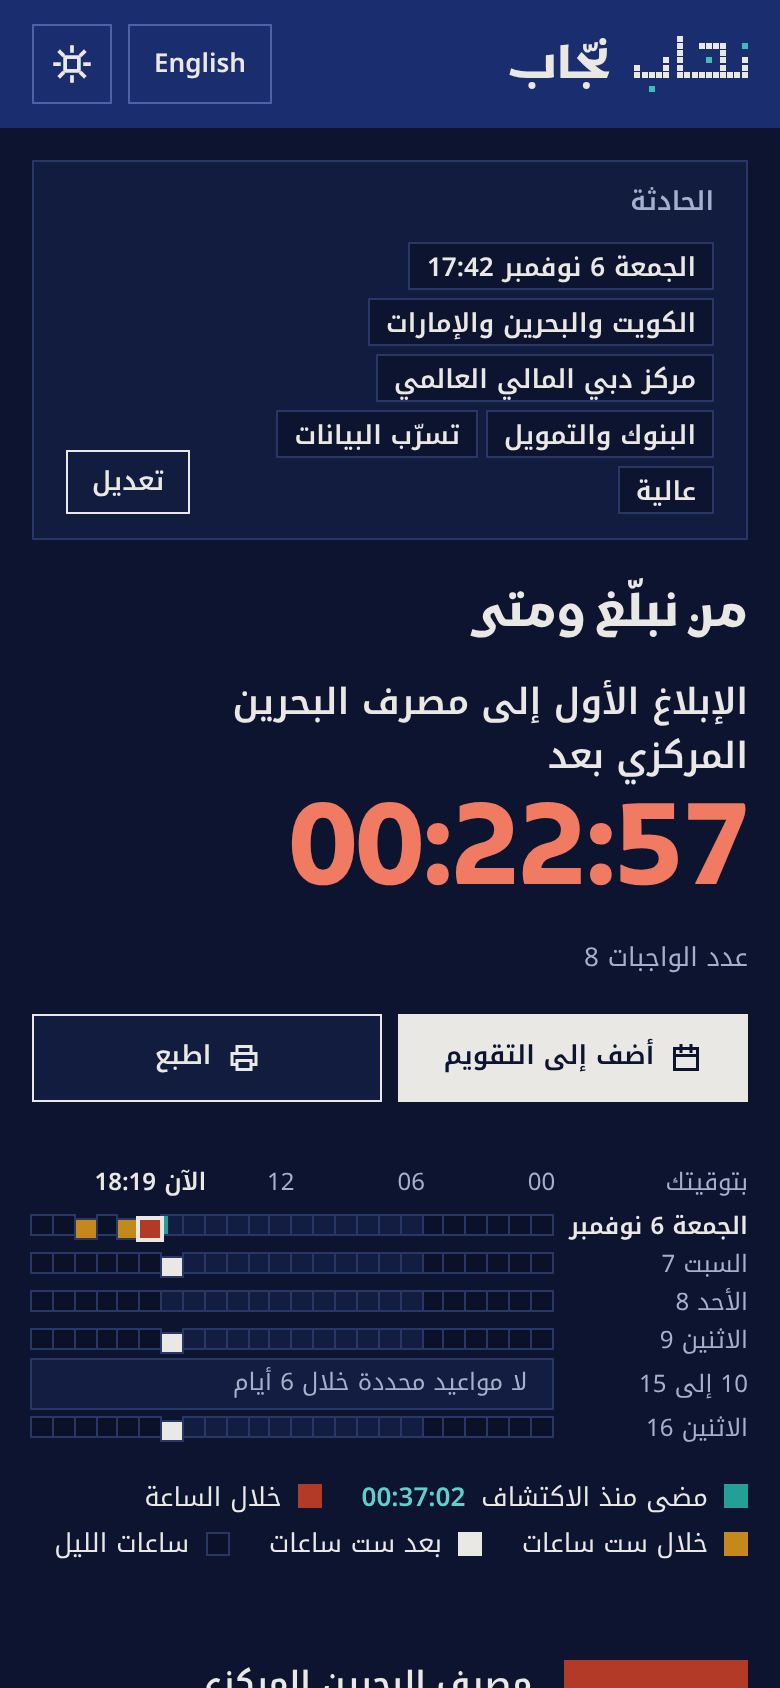
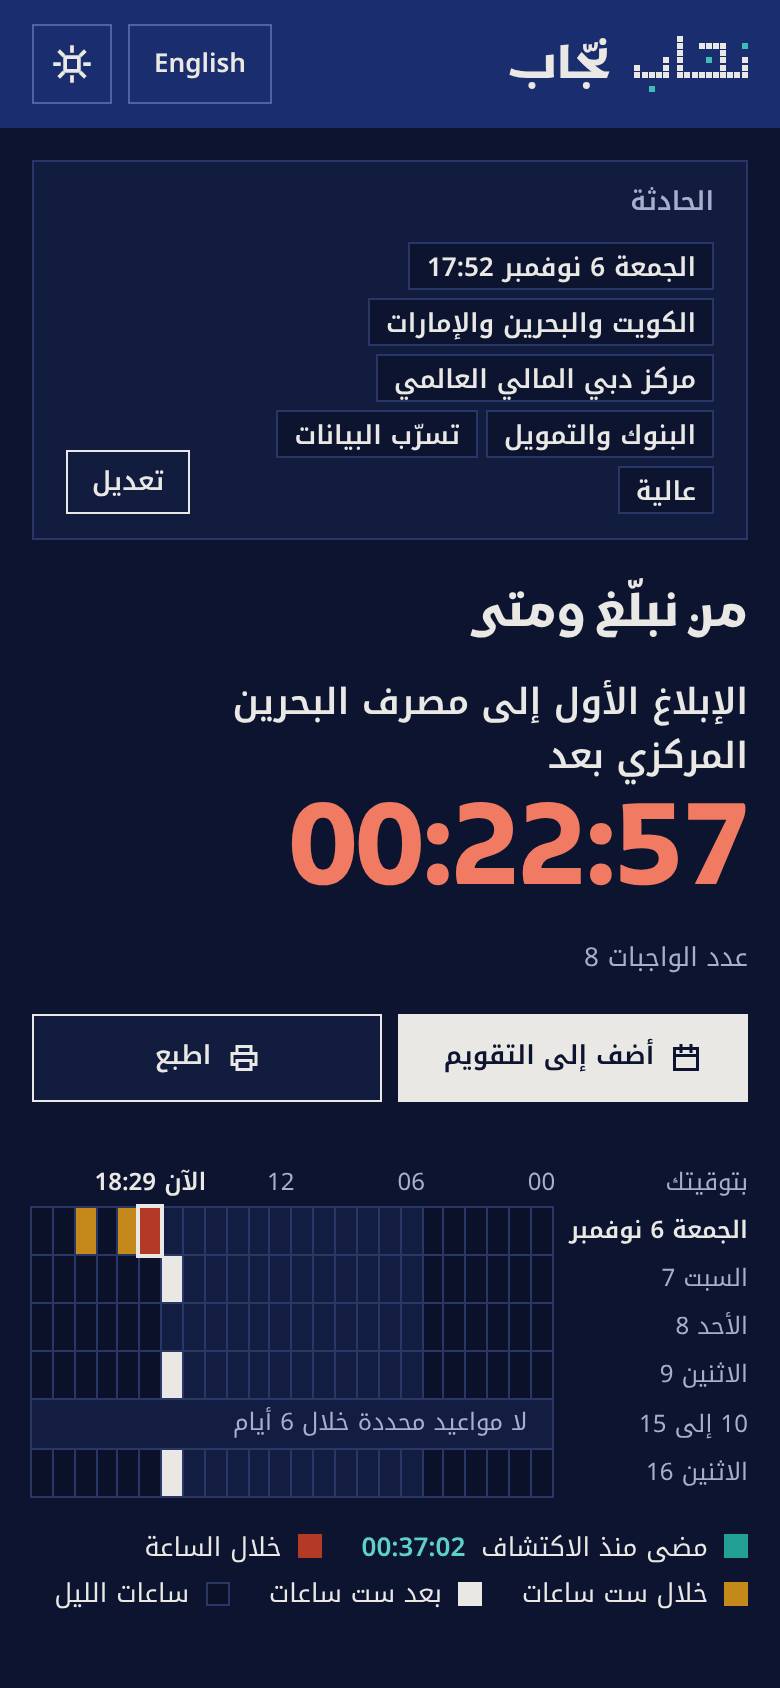
Phone wall rows a full target tall, and the discovery field typeable everywhere
On a phone each hour of the wall is a brick standing on its end, a 24 pixel
row tall, and glazed tiles one plain tile apart share a target as touching ones
do, so no two targets overlap. Opening the moment of discovery now opens the
field itself with its label, so its hour and minute can be typed where a
browser's picker offers only the date.

The due time line under each duty had the same class name as the glazed tiles,
which pushed every glazed tile four pixels down; it has its own name now.

diff --git a/docs/assets/app.js b/docs/assets/app.js
@@ -208,7 +208,7 @@ function renderForm() {
     h('input', { type: 'radio', name: 'severity', value: k, checked: S.severity === k, onchange: () => { S.severity = k; changed('severity'); } }),
     h('span', { text: P(B.severities[k]) })))), h('p', { class: 'hint', text: t('severity_hint') }));
   // The moment shows in the page's own words; the browser's picker, hidden beneath it, does the editing.
-  const input = h('input', { type: 'datetime-local', id: 'discovered', class: 'moment-input', step: '60', tabindex: '-1', 'aria-hidden': 'true', value: toLocalInput(S.discovered),
+  const input = h('input', { type: 'datetime-local', id: 'discovered', class: 'moment-input', step: '60', tabindex: '-1', 'aria-hidden': 'true', 'aria-labelledby': 'discovered-label', value: toLocalInput(S.discovered),
     onchange: (e) => {
       const d = new Date(e.target.value);
       if (Number.isNaN(d.getTime())) return;
@@ -242,15 +242,16 @@ function showMoment() {
   if (text) text.textContent = core.when(new Date(S.discovered), S.lang);
 }
 
-// The browser's own picker opens from the shown moment; where a browser has no picker to open, the field itself appears.
+// The field itself opens over the shown moment, so its hour and minute can always be typed, and the browser's picker opens with it
+// where there is one; some pickers offer only the date.
 function openPicker(input) {
-  if (typeof input.showPicker === 'function') {
-    try { input.showPicker(); return; } catch { /* fall through to the field */ }
-  }
   input.closest('.moment').classList.add('editing');
   input.removeAttribute('aria-hidden');
   input.tabIndex = 0;
   input.focus();
+  if (typeof input.showPicker === 'function') {
+    try { input.showPicker(); } catch { /* the open field is enough */ }
+  }
 }
 function closePicker(input) {
   const box = input.closest('.moment');
@@ -315,7 +316,7 @@ function dueLine(date, countryCode) {
   const country = B.countries[countryCode];
   const mine = core.when(date, S.lang);
   const theirs = core.when(date, S.lang, country.tz);
-  return h('p', { class: 'due' }, t('due_local', { time: mine }), theirs !== mine ? [' ', h('span', { class: 'tz', text: t('due_country', { time: theirs, country: P(country) }) })] : null);
+  return h('p', { class: 'due-line' }, t('due_local', { time: mine }), theirs !== mine ? [' ', h('span', { class: 'tz', text: t('due_country', { time: theirs, country: P(country) }) })] : null);
 }
 
 function itemLine(item) {
@@ -430,15 +431,23 @@ function dayRow(r, withMonth, isToday) {
     tile.dataset.start = String(start);
     cells.push(tile);
   }
-  // Glazed tiles that touch share one target where the wall is too narrow for a thumb: the first leads to the earliest duty.
+  // Glazed tiles that touch, or stand one plain tile apart, share one target where the wall is too narrow for a thumb,
+  // so no two 24px targets overlap there: the first leads to the earliest duty, the list below reaches the rest.
+  let head = null;
   for (let i = 1; i < cells.length; i++) {
-    if (!cells[i].classList.contains('due') || !cells[i - 1].classList.contains('due')) continue;
-    let head = i - 1;
-    while (cells[head].classList.contains('joined')) head -= 1;
-    cells[head].classList.add('run-head');
-    cells[head].style.setProperty('--run', String(i - head + 1));
-    cells[i].classList.add('joined');
+    if (!cells[i].classList.contains('due')) continue;
+    const near = head && i - Number(head.dataset.last) <= 2;
+    if (near) {
+      head.classList.add('run-head');
+      head.style.setProperty('--run', String(i - cells.indexOf(head) + 1));
+      cells[i].classList.add('joined');
+      head.dataset.last = String(i);
+    } else {
+      head = cells[i];
+      head.dataset.last = String(i);
+    }
   }
+  for (const c of cells) delete c.dataset.last;
   return cells;
 }
 

diff --git a/docs/assets/styles.css b/docs/assets/styles.css
@@ -481,6 +481,10 @@ input:checked + .switch::after { background: var(--on-turq); translate: -18px 0;
   .tick.minor { display: none; }
 }
 @container (max-width: 460px) {
+  /* Too narrow for a square a thumb can find: each hour becomes a brick standing on its end, a full 24px row tall, so a
+     glazed tile's target never reaches into the row above or below. */
+  .wall-grid { grid-auto-rows: minmax(calc(24px - var(--hair)), auto); }
+  .tile { aspect-ratio: auto; align-self: stretch; }
   .tile .n { display: none; }
   .tile.due::before { inset: auto; top: calc(50% - 12px); inset-inline-start: calc(50% - 12px); width: 24px; height: 24px; }
   .tile.due.run-head::before { width: calc((var(--run, 1) - 1) * (100% + var(--hair)) + 24px); }
@@ -537,7 +541,7 @@ input:checked + .switch::after { background: var(--on-turq); translate: -18px 0;
 .applies { margin-top: var(--s-2); color: var(--muted); font-size: var(--fs-small); line-height: var(--lh-snug); }
 .when { line-height: var(--lh-snug); }
 .when b { margin-inline-end: var(--s-1); }
-.due { margin-top: var(--s-1); font-size: var(--fs-small); line-height: var(--lh-snug); }
+.due-line { margin-top: var(--s-1); font-size: var(--fs-small); line-height: var(--lh-snug); }
 .tz { color: var(--faint); white-space: nowrap; }
 .note { margin-top: var(--s-1); font-size: var(--fs-small); color: var(--ochre-text); line-height: var(--lh-snug); }
 .more { list-style: none; margin: var(--s-3) 0 0; padding: var(--s-2) 0 0; border-top: var(--hair) dashed var(--grout); display: grid; gap: var(--s-1); font-size: var(--fs-small); line-height: var(--lh-snug); }
